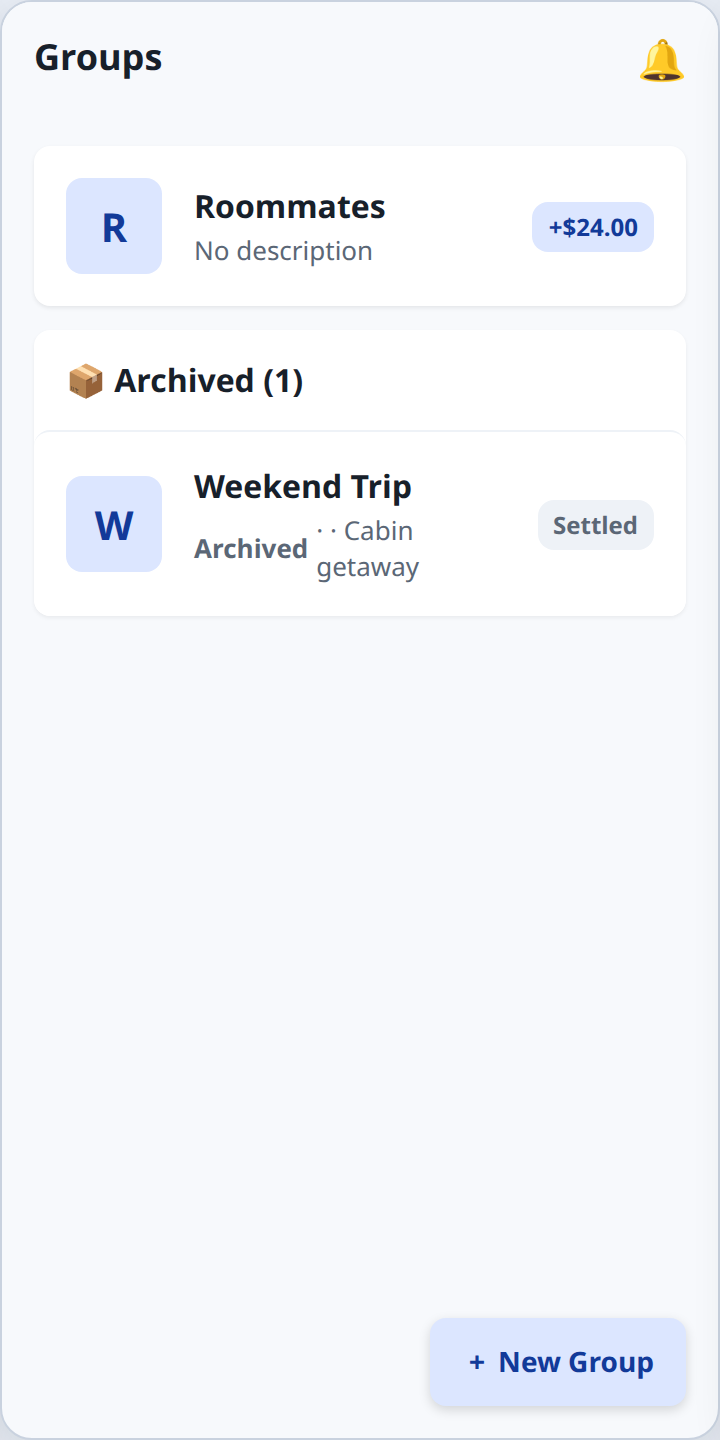
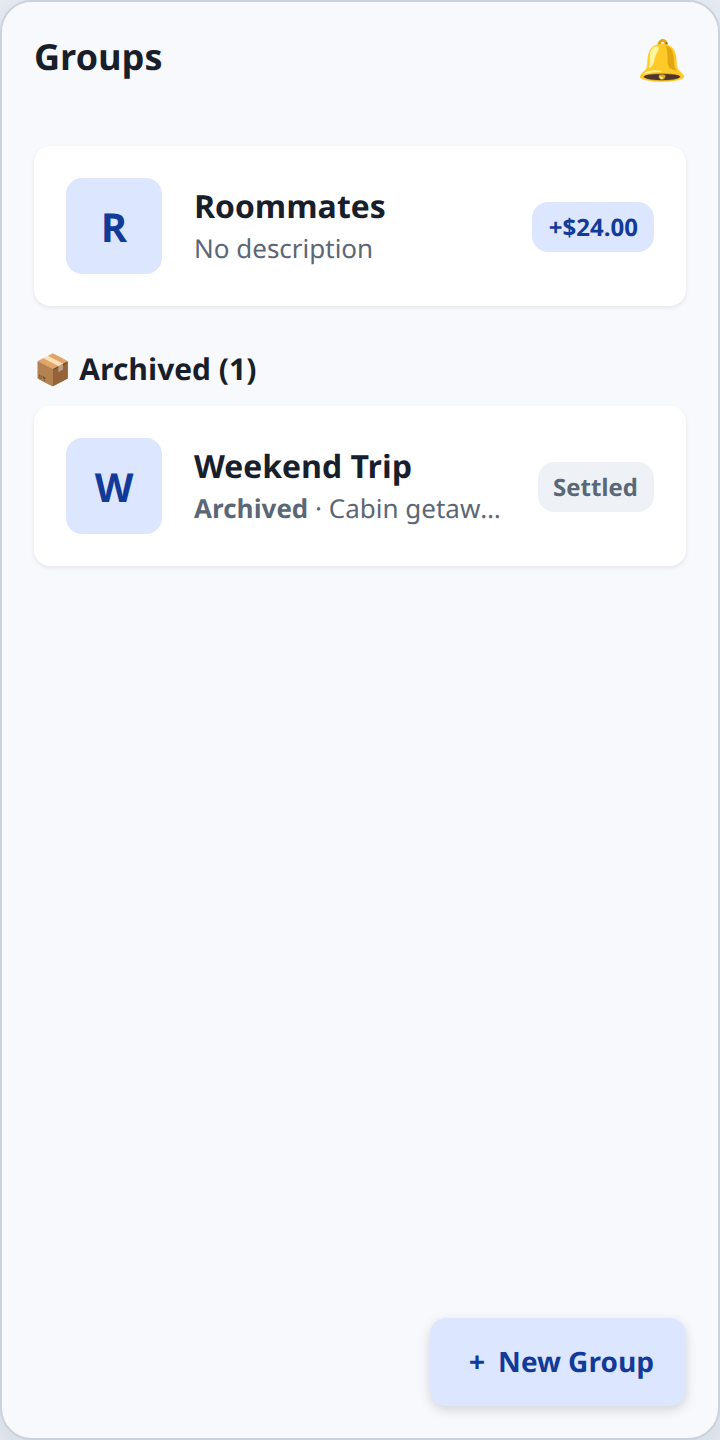
fix(mobile): align archived group card subtitle on one baseline
Render status + description as a single ellipsized subtitle line so
Archived/Former match Active card typography, and tighten accordion
header/content insets.

diff --git a/mobile/screens/GroupsListScreen.tsx b/mobile/screens/GroupsListScreen.tsx
@@ -149,6 +149,17 @@ export const GroupsListScreen: React.FC<GroupsListScreenProps> = ({
       ? notifications.data?.unread_by_group[group.id] ?? 0
       : 0;
     const hasUnreadActivity = unreadActivityCount > 0;
+    const statusLabel =
+      group.user_status === "left"
+        ? "Former Member"
+        : group.archived_at
+          ? "Archived"
+          : null;
+    const statusColor =
+      group.user_status === "left"
+        ? theme.colors.error
+        : theme.colors.onSurfaceVariant;
+    const description = group.description || "No description";
 
     return (
     <Surface
@@ -223,39 +234,30 @@ export const GroupsListScreen: React.FC<GroupsListScreenProps> = ({
                 />
               ) : null}
             </View>
-            <View style={styles.groupMetadata}>
-              {group.user_status === 'left' && (
-                <Text 
-                  variant="bodySmall"
-                  style={[styles.formerStatusText, { color: theme.colors.error }]}
-                >
-                  Former Member
-                </Text>
-              )}
-              {group.user_status !== 'left' && !!group.archived_at && (
-                <Text
-                  variant="bodySmall"
-                  style={[styles.formerStatusText, { color: theme.colors.onSurfaceVariant }]}
-                >
-                  Archived
-                </Text>
-              )}
-              {(group.user_status === 'left' || !!group.archived_at) && (
-                <Text
-                  variant="bodySmall"
-                  style={[styles.metadataSeparator, { color: theme.colors.onSurfaceVariant }]}
-                >
-                  •
-                </Text>
-              )}
-              <Text
-                variant="bodySmall"
-                style={{ color: theme.colors.onSurfaceVariant, flex: 1 }}
-                numberOfLines={1}
-              >
-                {group.description || "No description"}
-              </Text>
-            </View>
+            <Text
+              variant="bodySmall"
+              style={[
+                styles.groupSubtitle,
+                { color: theme.colors.onSurfaceVariant },
+              ]}
+              numberOfLines={1}
+              ellipsizeMode="tail"
+            >
+              {statusLabel ? (
+                <>
+                  <Text
+                    variant="bodySmall"
+                    style={[styles.formerStatusText, { color: statusColor }]}
+                  >
+                    {statusLabel}
+                  </Text>
+                  <Text variant="bodySmall" style={{ color: theme.colors.onSurfaceVariant }}>
+                    {" · "}
+                  </Text>
+                </>
+              ) : null}
+              {description}
+            </Text>
           </View>
         </View>
 
@@ -454,7 +456,11 @@ export const GroupsListScreen: React.FC<GroupsListScreenProps> = ({
                     { backgroundColor: theme.colors.surface },
                   ]}
                   left={(props) => (
-                    <List.Icon {...props} icon="archive-outline" />
+                    <List.Icon
+                      {...props}
+                      icon="archive-outline"
+                      style={styles.accordionLeftIcon}
+                    />
                   )}
                   expanded={archivedGroupsExpanded}
                   onPress={() => setArchivedGroupsExpanded(!archivedGroupsExpanded)}
@@ -476,7 +482,11 @@ export const GroupsListScreen: React.FC<GroupsListScreenProps> = ({
                     { backgroundColor: theme.colors.surface },
                   ]}
                   left={(props) => (
-                    <List.Icon {...props} icon="history" />
+                    <List.Icon
+                      {...props}
+                      icon="history"
+                      style={styles.accordionLeftIcon}
+                    />
                   )}
                   expanded={formerGroupsExpanded}
                   onPress={() => setFormerGroupsExpanded(!formerGroupsExpanded)}
@@ -615,15 +625,11 @@ const styles = StyleSheet.create({
     borderRadius: 8,
   },
   // New Styles
-  groupMetadata: {
-    flexDirection: "row",
-    alignItems: "center",
+  groupSubtitle: {
+    marginTop: 2,
   },
   formerStatusText: {
     fontWeight: "bold",
-  },
-  metadataSeparator: {
-    marginHorizontal: 4,
   },
   groupMainContent: {
     flexDirection: "row",
@@ -633,17 +639,25 @@ const styles = StyleSheet.create({
   groupInfo: {
     flex: 1,
     paddingRight: 8,
+    minWidth: 0,
   },
   accordion: {
     marginTop: 12,
     marginBottom: 12,
     borderRadius: 8,
     overflow: "hidden",
+    paddingHorizontal: 0,
   },
   accordionTitle: {
     fontWeight: "600",
   },
+  accordionLeftIcon: {
+    marginLeft: 0,
+    marginRight: 0,
+  },
   accordionContent: {
     paddingHorizontal: 0,
+    paddingLeft: 0,
+    marginLeft: 0,
   },
 });

diff --git a/docs/pr-297-walkthrough/index.html b/docs/pr-297-walkthrough/index.html
@@ -86,19 +86,41 @@
     }
     .card-body { flex: 1; min-width: 0; }
     .name { font-weight: 700; font-size: 16px; }
-    .meta { font-size: 13px; color: var(--muted); margin-top: 2px; display: flex; gap: 4px; align-items: center; }
+    .meta {
+      font-size: 13px;
+      color: var(--muted);
+      margin-top: 2px;
+      white-space: nowrap;
+      overflow: hidden;
+      text-overflow: ellipsis;
+      line-height: 1.35;
+    }
+    .meta strong { font-weight: 700; color: var(--muted); }
     .badge {
       background: var(--primary-container); color: var(--on-primary-container);
       font-size: 12px; font-weight: 700; padding: 4px 8px; border-radius: 8px;
+      flex-shrink: 0;
     }
     .accordion {
-      background: var(--surface); border-radius: 8px; margin-top: 12px;
-      box-shadow: 0 1px 2px rgba(0,0,0,0.06); overflow: hidden;
+      background: transparent;
+      border-radius: 0;
+      margin-top: 4px;
+      box-shadow: none;
+      overflow: visible;
     }
     .accordion-head {
-      padding: 14px 16px; font-weight: 600; display: flex; align-items: center; gap: 12px;
+      padding: 10px 0 8px;
+      font-weight: 600;
+      display: flex;
+      align-items: center;
+      gap: 8px;
+      font-size: 15px;
     }
-    .accordion .card { box-shadow: none; margin: 0; border-top: 1px solid #EEF2F7; }
+    .accordion .card {
+      box-shadow: 0 1px 2px rgba(0,0,0,0.08);
+      margin-bottom: 12px;
+      border-top: none;
+    }
     .menu {
       position: absolute; right: 12px; top: 8px;
       background: var(--surface); border-radius: 8px;
@@ -183,7 +205,7 @@
               <div class="avatar">W</div>
               <div class="card-body">
                 <div class="name">Weekend Trip</div>
-                <div class="meta"><strong>Archived</strong> · · Cabin getaway</div>
+                <div class="meta"><strong>Archived</strong> · Cabin getaway</div>
               </div>
               <div class="badge" style="background:#EEF2F7;color:var(--muted)">Settled</div>
             </div>
